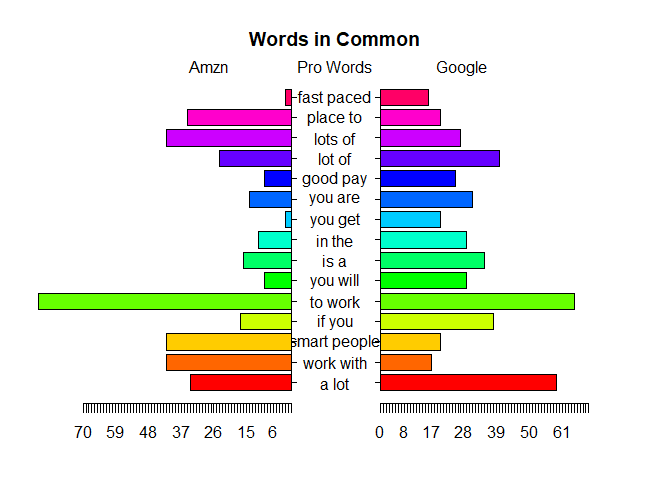
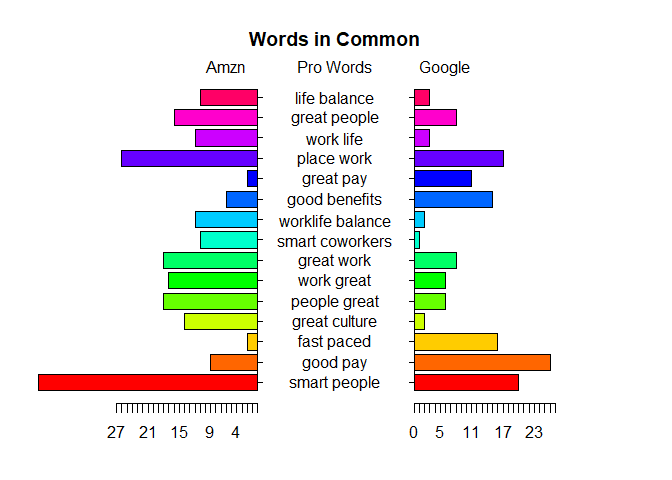
Add negative reviews pyramid plot.  Correct dats cleaning.

diff --git a/battle_of_tech_giants.md b/battle_of_tech_giants.md
@@ -1,7 +1,7 @@
 Battle of the tech giants for talent
 ================
 Mark Blackmore
-2018-01-10
+2018-01-11
 
 -   [Identifying the text sources](#identifying-the-text-sources)
 -   [Text organization](#text-organization)
@@ -11,6 +11,8 @@ Mark Blackmore
 -   [amzn\_cons dendrogram](#amzn_cons-dendrogram)
 -   [word association](#word-association)
 -   [Quick review of Google reviews](#quick-review-of-google-reviews)
+-   [Cage match! Amazon vs. Google pro reviews](#cage-match-amazon-vs.-google-pro-reviews)
+-   [Cage match! Amazon vs. Google con reviews](#cage-match-amazon-vs.-google-con-reviews)
 
 ``` r
 # Load Packages
@@ -174,10 +176,10 @@ wordcloud(names(amzn_p_freq), amzn_p_freq, max.words = 20, color = "blue")
 ```
 
     ## Warning in wordcloud(names(amzn_p_freq), amzn_p_freq, max.words = 20, color
-    ## = "blue"): great benefits could not be fit on page. It will not be plotted.
+    ## = "blue"): good pay could not be fit on page. It will not be plotted.
 
     ## Warning in wordcloud(names(amzn_p_freq), amzn_p_freq, max.words = 20, color
-    ## = "blue"): fast paced could not be fit on page. It will not be plotted.
+    ## = "blue"): great benefits could not be fit on page. It will not be plotted.
 
 ![](battle_of_tech_giants_files/figure-markdown_github-ascii_identifiers/unnamed-chunk-9-1.png)
 
@@ -388,13 +390,13 @@ comparison.cloud(all_m, colors = c("#F44336", "#2196f3"), max.words = 100)
 
 ![](battle_of_tech_giants_files/figure-markdown_github-ascii_identifiers/unnamed-chunk-13-1.png)
 
-\#\#\# Cage match! Amazon vs. Google pro reviews
+### Cage match! Amazon vs. Google pro reviews
 
 ``` r
 # Create a_pros
 a_pros <- paste(amzn_pros, collapse = " ")
 
-# Create all_goog
+# Create all_pros
 all_pros <- c(g_pros, a_pros)
 all_pros_corpus <- VCorpus(VectorSource(all_pros))
 
@@ -402,7 +404,7 @@ all_pros_corpus <- VCorpus(VectorSource(all_pros))
 all_pros_corp <- tm_clean(all_pros_corpus)
 
 # Create all_tdm
-all_tdm <- TermDocumentMatrix(all_pros_corpus, control = list(tokenize = tokenizer))
+all_tdm <- TermDocumentMatrix(all_pros_corp, control = list(tokenize = tokenizer))
 
 # Name the columns of all_tdm
 colnames(all_tdm) <- c("Amazon_Pro", "Google_Pro")
@@ -411,14 +413,14 @@ all_tdm_m <- as.matrix(all_tdm)
 head(all_tdm_m)
 ```
 
-    ##             Docs
-    ## Terms        Amazon_Pro Google_Pro
-    ##   -- at               1          0
-    ##   -- awesome          1          0
-    ##   - access            1          0
-    ##   - amazing           1          0
-    ##   - but               1          1
-    ##   - do                0          1
+    ##                   Docs
+    ## Terms              Amazon_Pro Google_Pro
+    ##   ability customer          0          1
+    ##   ability iterate           0          1
+    ##   ability make              1          1
+    ##   ability see               0          1
+    ##   ability switch            1          0
+    ##   ability travel            1          0
 
 ``` r
 # Create common_words
@@ -446,5 +448,66 @@ pyramid.plot(top15_df$x, top15_df$y,
 ```
 
 ![](battle_of_tech_giants_files/figure-markdown_github-ascii_identifiers/unnamed-chunk-14-1.png)
+
+    ## [1] 5.1 4.1 4.1 2.1
+
+### Cage match! Amazon vs. Google con reviews
+
+``` r
+# Create a_cons
+a_cons <- paste(amzn_cons, collapse = " ")
+
+# Create all_cons
+all_cons <- c(g_cons, a_cons)
+all_cons_corpus <- VCorpus(VectorSource(all_cons))
+
+# Create all_cons_corp
+all_cons_corp <- tm_clean(all_cons_corpus)
+
+# Create all_tdm
+all_tdm <- TermDocumentMatrix(all_cons_corp, control = list(tokenize = tokenizer))
+
+# Name the columns of all_tdm
+colnames(all_tdm) <- c("Amazon_Con", "Google_Con")
+
+all_tdm_m <- as.matrix(all_tdm)
+head(all_tdm_m)
+```
+
+    ##                  Docs
+    ## Terms             Amazon_Con Google_Con
+    ##   â<U+0080>¦â show                4          0
+    ##   aâ â<U+0080>¦â                  1          0
+    ##   abandon open             1          0
+    ##   ability advance          0          1
+    ##   able sacrifice           0          1
+    ##   able sit                 0          1
+
+``` r
+# Create common_words
+common_words <- subset(all_tdm_m, all_tdm_m[, 1] > 0 & all_tdm_m[, 2] > 0)
+
+# Create difference
+difference <- abs(common_words[,1] - common_words[,2])
+
+# Add difference to common_words
+common_words <- cbind(common_words,difference)
+
+# Order the data frame from most differences to least
+common_words <- common_words[order(common_words[,3], decreasing = TRUE), ]
+
+# Create top15_df
+top15_df <- data.frame(x = common_words[1:15, 1],
+                       y = common_words[1:15, 2],
+                       labels = rownames(common_words[1:15, ]))
+
+# Create the pyramid plot
+pyramid.plot(top15_df$x, top15_df$y, 
+             labels = top15_df$labels, gap = 12, 
+             top.labels = c("Amzn", "Con Words", "Google"), 
+             main = "Words in Common", unit = NULL)
+```
+
+![](battle_of_tech_giants_files/figure-markdown_github-ascii_identifiers/unnamed-chunk-15-1.png)
 
     ## [1] 5.1 4.1 4.1 2.1
